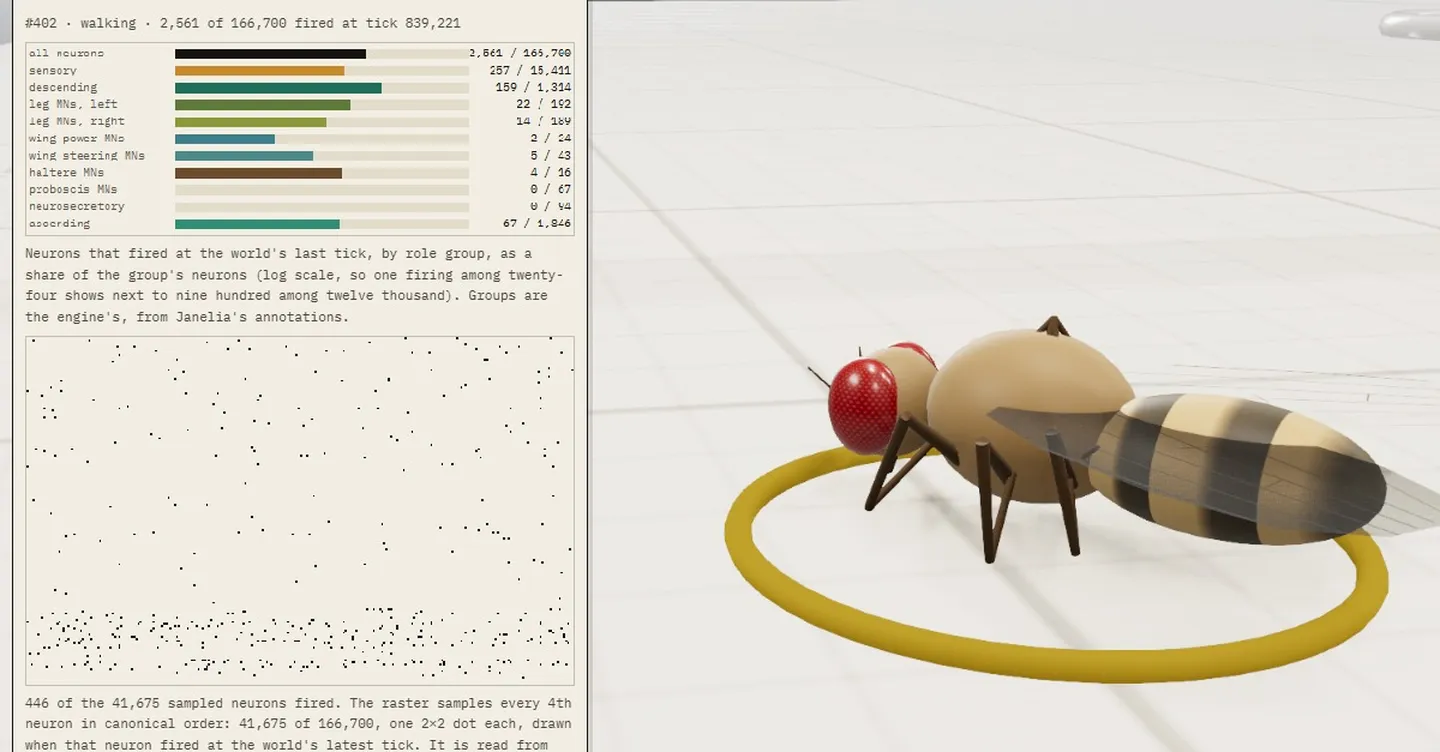
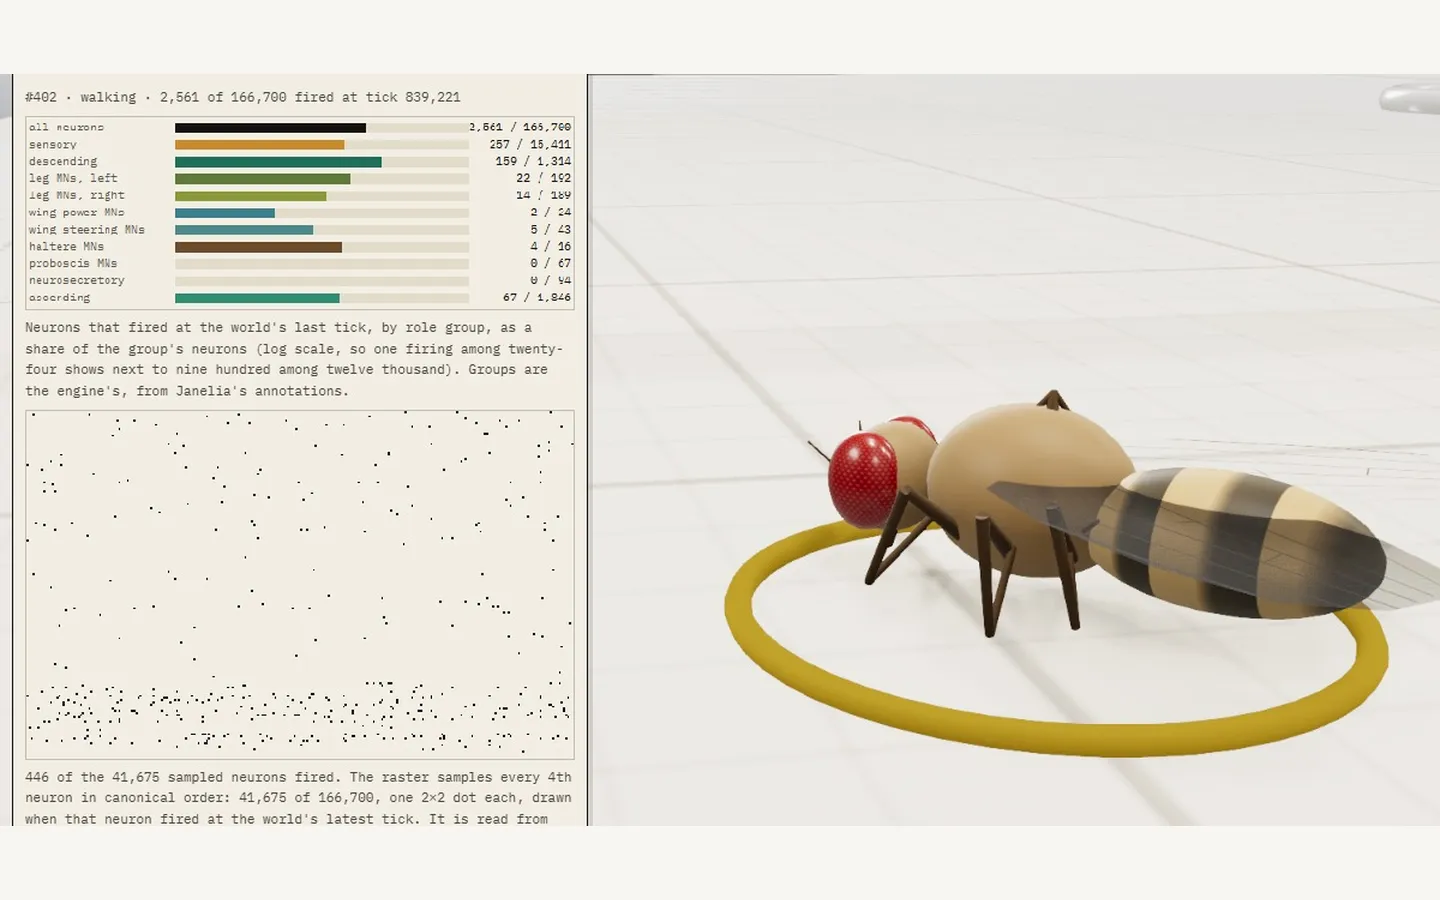
fix: preserve full Instar screenshot in project frame

diff --git a/index.html b/index.html
@@ -105,7 +105,7 @@
       <p class="desc measure">A deterministic artificial-life world where fruit flies run on a 166,700-neuron connectome from Janelia FlyEM MaleCNS v1.0, with 6,242,118 connections containing at least five synapses each. Rust runs the world through WebAssembly, and three.js draws it in the browser. An Anchor program on Solana records each fly&rsquo;s identity and ancestry, with state commitments for replay. The neuron dynamics are simplified, not a faithful simulation of a fly.</p>
       <figure class="plate">
         <button class="plate-open" type="button" aria-label="Enlarge screenshot: Instar browser view showing a fruit fly beside neuron firing counts and a raster plot.">
-          <img src="img/work/connectome-life-sim-720.webp" srcset="img/work/connectome-life-sim-720.webp 720w, img/work/connectome-life-sim-1440.webp 1440w" sizes="(min-width: 900px) 700px, calc(100vw - 60px)" width="1440" height="752" alt="Instar browser view showing a fruit fly beside neuron firing counts and a raster plot." loading="lazy" decoding="async">
+          <img src="img/work/connectome-life-sim-720.webp" srcset="img/work/connectome-life-sim-720.webp 720w, img/work/connectome-life-sim-1440.webp 1440w" sizes="(min-width: 900px) 700px, calc(100vw - 60px)" width="1440" height="900" alt="Instar browser view showing a fruit fly beside neuron firing counts and a raster plot." loading="lazy" decoding="async">
         </button>
         <figcaption>A selected fly and its neuron activity at one world tick.</figcaption>
       </figure>
